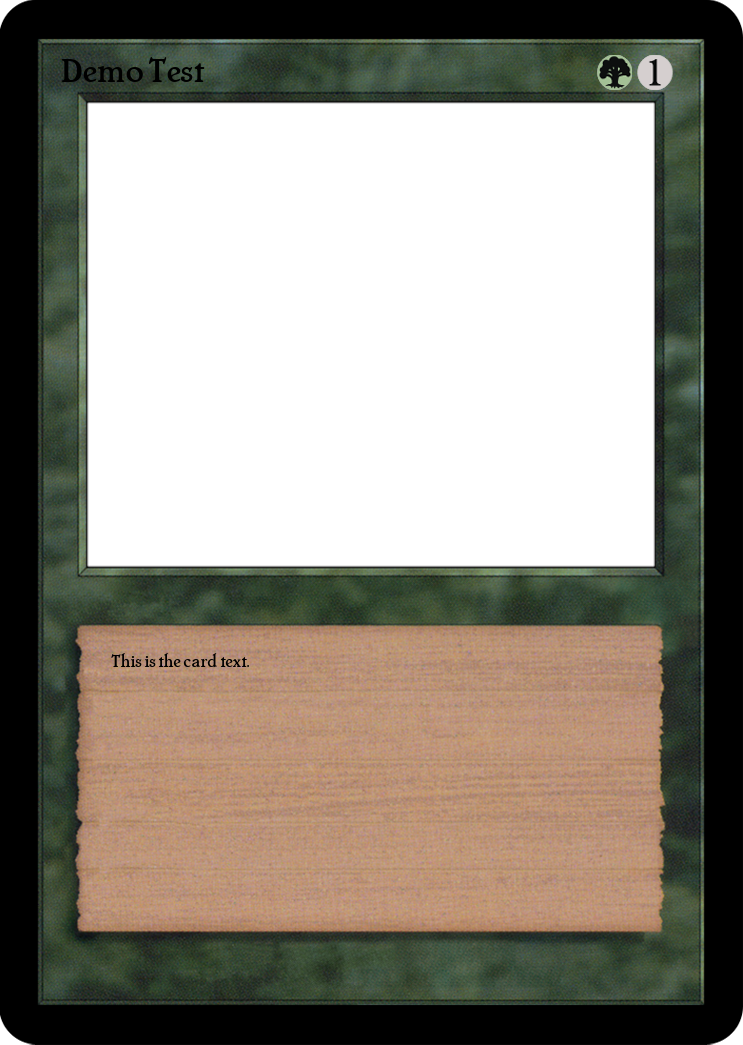
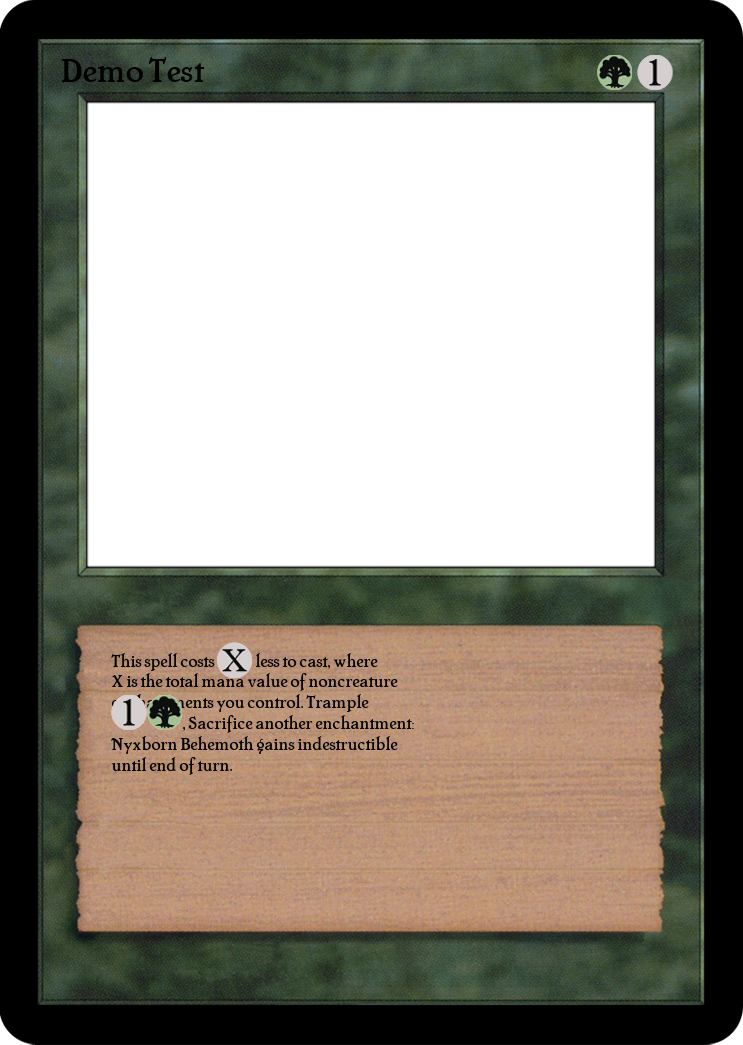
update with symbol parse

Changed region(s): [[0.1548, 0.6124, 0.5572, 0.7349]]

diff --git a/script.py b/script.py
@@ -1,3 +1,4 @@
+import re
 from PIL import Image, ImageDraw, ImageFont
 import textwrap
 
@@ -6,14 +7,41 @@ import textwrap
 cards = [
     {
         "template": "green",
-        "mana1_path": "mtg/1_colorless.png",
-        "mana2_path": "mtg/forest.png",
+        "mana1_path": "mtg/1.png",
+        "mana2_path": "mtg/G.png",
         "card_name": "Demo Test",
-        "text": "This is the card text.",
+        "text": "This spell costs {X} less to cast, where X is the total mana value of noncreature enchantments you control.\nTrample\n{1}{G}, Sacrifice another enchantment: Nyxborn Behemoth gains indestructible until end of turn.",
         "output_path": "output_card1.png"
     },
     # ... other cards
 ]
+
+def replace_symbols_with_images(template, draw, text, start_x, start_y, font):
+    pattern = re.compile(r'\{[0-9XGURWB]+\}')
+    current_position = start_x, start_y
+
+    for line in text.split('\n'):
+        offset = 0
+        for match in pattern.finditer(line):
+            part = line[offset:match.start()]
+            # Draw the text part
+            draw.text(current_position, part, font=font, fill=(0, 0, 0))
+            bbox = font.getbbox(part)  # Using getbbox instead of getsize
+            current_position = (current_position[0] + bbox[2], current_position[1])
+
+            # Draw the symbol image
+            symbol = match.group()
+            symbol_image = Image.open(f'assets/mana/{symbol[1:-1]}.png')
+            template.paste(symbol_image, (current_position[0], current_position[1] - symbol_image.height // 2 + bbox[3] // 2), symbol_image)
+            current_position = (current_position[0] + symbol_image.width, current_position[1])
+
+            offset = match.end()
+
+        remaining_text = line[offset:]
+        draw.text(current_position, remaining_text, font=font, fill=(0, 0, 0))
+        bbox = font.getbbox(remaining_text)
+        current_position = (start_x, current_position[1] + bbox[3])
+
 
 def create_card(card):
     # Load the main card template
@@ -27,8 +55,8 @@ def create_card(card):
     template = Image.open(template_files[card["template"]])
     
     # Load mana images
-    mana1 = Image.open("assets/mana/1_colorless.png")
-    mana2 = Image.open("assets/mana/forest.png")
+    mana1 = Image.open("assets/mana/1.png")
+    mana2 = Image.open("assets/mana/G.png")
 
     # Calculate position for mana images (top-right corner)
     mana1_x = template.width - mana1.width - 70  # 10 pixels from the right edge
@@ -48,15 +76,17 @@ def create_card(card):
     text_y = 50  # 60 pixels from the top
     draw.text((text_x, text_y), card["card_name"], (0, 0, 0), font=font)  # Black text
 
-    # Add card text
+ # Add card text with symbols
     draw = ImageDraw.Draw(template)
-    font_text = ImageFont.truetype("assets/fonts/Cheboyga.ttf", 17)  # Adjust font and size for the card text
-    text_x = 111  # Adjust the x-coordinate for text placement
-    text_y = 650  # Adjust the y-coordinate for text placement
+    font_text = ImageFont.truetype("assets/fonts/Cheboyga.ttf", 17)
+    text_x = 111
+    text_y = 650
+    wrapped_text = textwrap.fill(card["text"], width=40)
+    replace_symbols_with_images(template, draw, wrapped_text, text_x, text_y, font_text)
 
-    # Text wrapping (if necessary)
-    wrapped_text = textwrap.fill(card["text"], width=40)  # Adjust 'width' as needed for your card
-    draw.text((text_x, text_y), wrapped_text, (0, 0, 0), font=font_text)
+    # # Text wrapping (if necessary)
+    # wrapped_text = textwrap.fill(card["text"], width=40)  # Adjust 'width' as needed for your card
+    # draw.text((text_x, text_y), wrapped_text, (0, 0, 0), font=font_text)
 
     # Save the result
     template.save(card["output_path"], format='PNG')

diff --git a/tst.py b/tst.py
@@ -1,0 +1,35 @@
+import re
+from PIL import Image, ImageDraw, ImageFont
+
+# Load your base image (card template)
+base_image = Image.open('assets/templates/white_temp.png')
+draw = ImageDraw.Draw(base_image)
+font = ImageFont.load_default()
+
+# Your text string
+text = "This spell costs {X} less to cast, where X is the total mana value of noncreature enchantments you control.\nTrample\n{1}{G}, Sacrifice another enchantment: Nyxborn Behemoth gains indestructible until end of turn."
+
+# Function to replace mana symbols with images
+def replace_symbols_with_images(draw, text, start_position):
+    pattern = re.compile(r'\{[0-9XGURWB]+\}')
+    current_position = 300,300
+
+    for part in pattern.split(text):
+        # Draw the text part
+        draw.text(current_position, part, font=font, fill=(0, 0, 0))
+        current_position = (current_position[0] + font.getsize(part)[0], current_position[1])
+
+        # Find the next symbol and draw its image
+        match = pattern.search(text)
+        if match:
+            symbol = match.group()
+            # Load the symbol image (you need to have these images)
+            symbol_image = Image.open(f'assets/mana/{symbol[1:-1]}.png')
+            base_image.paste(symbol_image, current_position, symbol_image)
+            current_position = (current_position[0] + symbol_image.width, current_position[1])
+            text = text[match.end():]
+
+replace_symbols_with_images(draw, text, (10, 10))  # Adjust the starting position as needed
+
+# Save the final image
+base_image.save('final_card.png')
